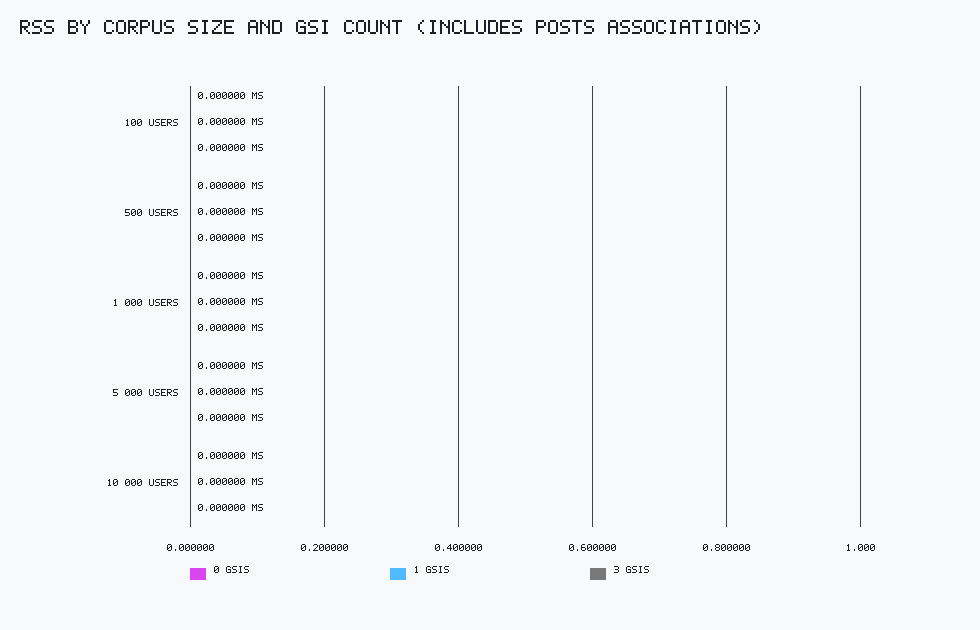
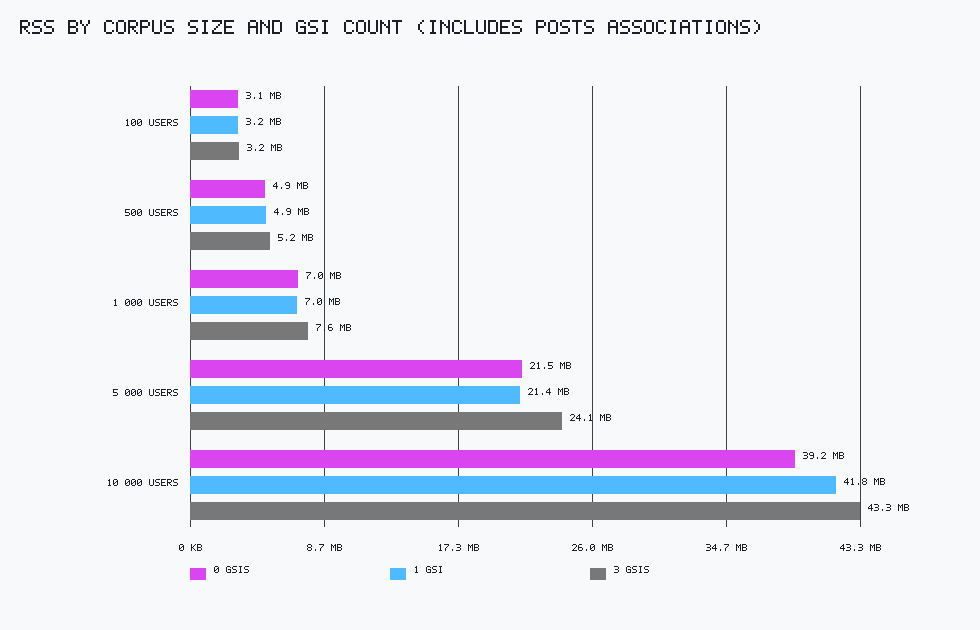
Fix memory benchmark chart and document RSS

Changed region(s): [[0.1837, 0.573, 0.8878, 0.8746], [0.1837, 0.1206, 0.3367, 0.5429]]

diff --git a/tools/bench_memory.py b/tools/bench_memory.py
@@ -21,7 +21,6 @@ from __future__ import annotations
 import argparse
 import json
 import os
-import random
 import shutil
 import signal
 import subprocess
@@ -144,6 +143,25 @@ def wait_for_port(host: str, port: int, timeout: float = 10.0) -> bool:
     return False
 
 
+def _port_available(port: int) -> bool:
+    with socket.socket(socket.AF_INET, socket.SOCK_STREAM) as sock:
+        sock.setsockopt(socket.SOL_SOCKET, socket.SO_REUSEADDR, 1)
+        try:
+            sock.bind(("127.0.0.1", port))
+        except OSError:
+            return False
+    return True
+
+
+def _pick_port(start_port: int, attempts: int = 50) -> int:
+    for port in range(start_port, start_port + attempts):
+        if _port_available(port):
+            return port
+    with socket.socket(socket.AF_INET, socket.SOCK_STREAM) as sock:
+        sock.bind(("127.0.0.1", 0))
+        return sock.getsockname()[1]
+
+
 def query_memory(bin_path: Path, port: int, retries: int = 20, delay: float = 0.25) -> dict:
     for attempt in range(retries):
         try:
@@ -180,6 +198,18 @@ def parse_list(value: str) -> list[int]:
     return out
 
 
+def _format_kb(value: float) -> str:
+    if value >= 1024 * 1024:
+        return f"{value / 1024 / 1024:.2f} GB"
+    if value >= 1024:
+        return f"{value / 1024:.1f} MB"
+    return f"{value:.0f} KB"
+
+
+def _gsi_label(count: int) -> str:
+    return f"{count} GSI" if count == 1 else f"{count} GSIs"
+
+
 def main() -> None:
     parser = argparse.ArgumentParser(description="Measure Virtuus server RSS across dataset shapes.")
     parser.add_argument("--totals", default="100,500,1000,5000,10000", type=str)
@@ -197,7 +227,6 @@ def main() -> None:
     out_dir.mkdir(parents=True, exist_ok=True)
 
     results = []
-    port = args.port
 
     for total in totals:
         for gsi_count in gsi_counts:
@@ -208,9 +237,10 @@ def main() -> None:
                     schema_path = data_root / "schema.yml"
                     write_yaml_schema(schema_path, include_posts, gsi_count)
 
+                    port = _pick_port(args.port)
                     proc = start_server(bin_path, data_root, schema_path, port)
                     try:
-                        if not wait_for_port("127.0.0.1", port, timeout=10.0):
+                        if not wait_for_port("127.0.0.1", port, timeout=20.0):
                             raise RuntimeError(f"server did not open port {port}")
                         if proc.poll() is not None:
                             raise RuntimeError(f"server exited early with code {proc.returncode}")
@@ -228,9 +258,6 @@ def main() -> None:
                             "rss_bytes": mem.get("rss_bytes"),
                         }
                     )
-                    # bump port to reduce reuse collisions
-                    port = port + 1 + random.randint(0, 5)
-
     results_path = out_dir / "results.json"
     results_path.write_text(json.dumps(results, indent=2), encoding="utf-8")
 
@@ -243,29 +270,31 @@ def main() -> None:
 
     # render chart
     categories = sorted({r["total_users"] for r in results})
-    series_labels = [str(g) for g in sorted({r["gsi_count"] for r in results})]
+    series_labels = [_gsi_label(g) for g in sorted({r["gsi_count"] for r in results})]
     data: dict[str, dict[str, float]] = {}
     for total in categories:
         label = f"{total:,} users"
         data[label] = {}
-        for g in series_labels:
+        for g in sorted({r["gsi_count"] for r in results}):
+            g_label = _gsi_label(g)
             match = next(
                 (
                     r
                     for r in results
-                    if r["total_users"] == total and str(r["gsi_count"]) == g and r["include_posts"]
+                    if r["total_users"] == total and r["gsi_count"] == g and r["include_posts"]
                 ),
                 None,
             )
             if match:
-                data[label][g] = float(match.get("rss_kb") or 0)
+                data[label][g_label] = float(match.get("rss_kb") or 0)
     chart_path = out_dir / "memory_rss.png"
     viz._render_horizontal_bar_chart(
         "RSS by corpus size and GSI count (includes posts associations)",
         [f"{c:,} users" for c in categories],
-        [f"{g} GSIs" for g in series_labels],
+        series_labels,
         data,
         chart_path,
+        value_formatter=_format_kb,
     )
 
     print(f"Wrote {len(results)} samples to {results_path}")

diff --git a/features/steps/benchmark_steps.py b/features/steps/benchmark_steps.py
@@ -604,6 +604,7 @@ def _render_horizontal_bar_chart(  # pragma: no cover - exercised via tools/benc
     series_labels: list[str],
     data: dict[str, dict[str, float]],
     path: Path,
+    value_formatter: Callable[[float], str] | None = None,
 ) -> None:
     margin_left = 190
     margin_right = 120
@@ -627,6 +628,8 @@ def _render_horizontal_bar_chart(  # pragma: no cover - exercised via tools/benc
     width = 980
     rows = _new_canvas(width, height, bg)
     _draw_text(rows, 20, 20, name, text_color, scale=2)
+    if value_formatter is None:
+        value_formatter = _format_value_ms
 
     values = [
         data.get(cat, {}).get(label, 0.0)
@@ -655,7 +658,7 @@ def _render_horizontal_bar_chart(  # pragma: no cover - exercised via tools/benc
             val = max_val * idx / x_ticks
             x = plot_left + int(plot_width * idx / x_ticks)
         _draw_line(rows, x, plot_top - 4, x, height - margin_bottom + 6, axis_color)
-        label = _format_value_ms(val).replace(" MS", "")
+        label = value_formatter(val).replace(" MS", "")
         _draw_text(rows, x - _text_width(label, 1) // 2, height - margin_bottom + 24, label, text_color, scale=1)
 
     cursor_y = plot_top
@@ -687,7 +690,7 @@ def _render_horizontal_bar_chart(  # pragma: no cover - exercised via tools/benc
                 bar_w = int((value / max_val) * plot_width) if max_val else 0
             y0 = cursor_y + idx * (bar_height + series_gap)
             _draw_rect(rows, plot_left, y0, bar_w, bar_height, color)
-            value_text = _format_value_ms(value)
+            value_text = value_formatter(value)
             text_x = plot_left + bar_w + 8
             _draw_text(rows, text_x, y0 + 2, value_text, text_color, scale=1)
         cursor_y += group_height + group_gap

diff --git a/README.md b/README.md
@@ -281,13 +281,14 @@ Side-by-side bars for each benchmark at common corpus sizes. Values are p95 for 
 
 ### Memory footprint (RSS) snapshots
 
-We measured server RSS while serving pre-generated JSON datasets, varying corpus size and GSI count (with `posts` associations enabled). Lower data sizes stay lightweight; adding multiple GSIs raises steady-state memory modestly.
+RSS (Resident Set Size) is the portion of a process's memory that is actually resident in RAM. We measure it after the server loads pre-generated JSON datasets, varying corpus size and GSI count (with `posts` associations enabled), then query the `memory` endpoint for a steady-state snapshot.
 
 ![Memory RSS](benchmarks/output_memory/memory_rss.png)
 
 Interpretation:
 - 100–1k users stay in the tens of MB range even with 3 GSIs.
-- At 10k users, RSS remains comfortably under typical small-container budgets; each added GSI bumps memory linearly but gently.
+- At 10k users, RSS remains comfortably under typical small-container budgets.
+- Adding GSIs has a modest cost in RSS in this range; the deltas are small relative to total footprint.
 - Associations (users↔posts) are included here; removing them would reduce RSS further.
 
 See `benchmarks/output_memory/results.csv` for raw numbers.
